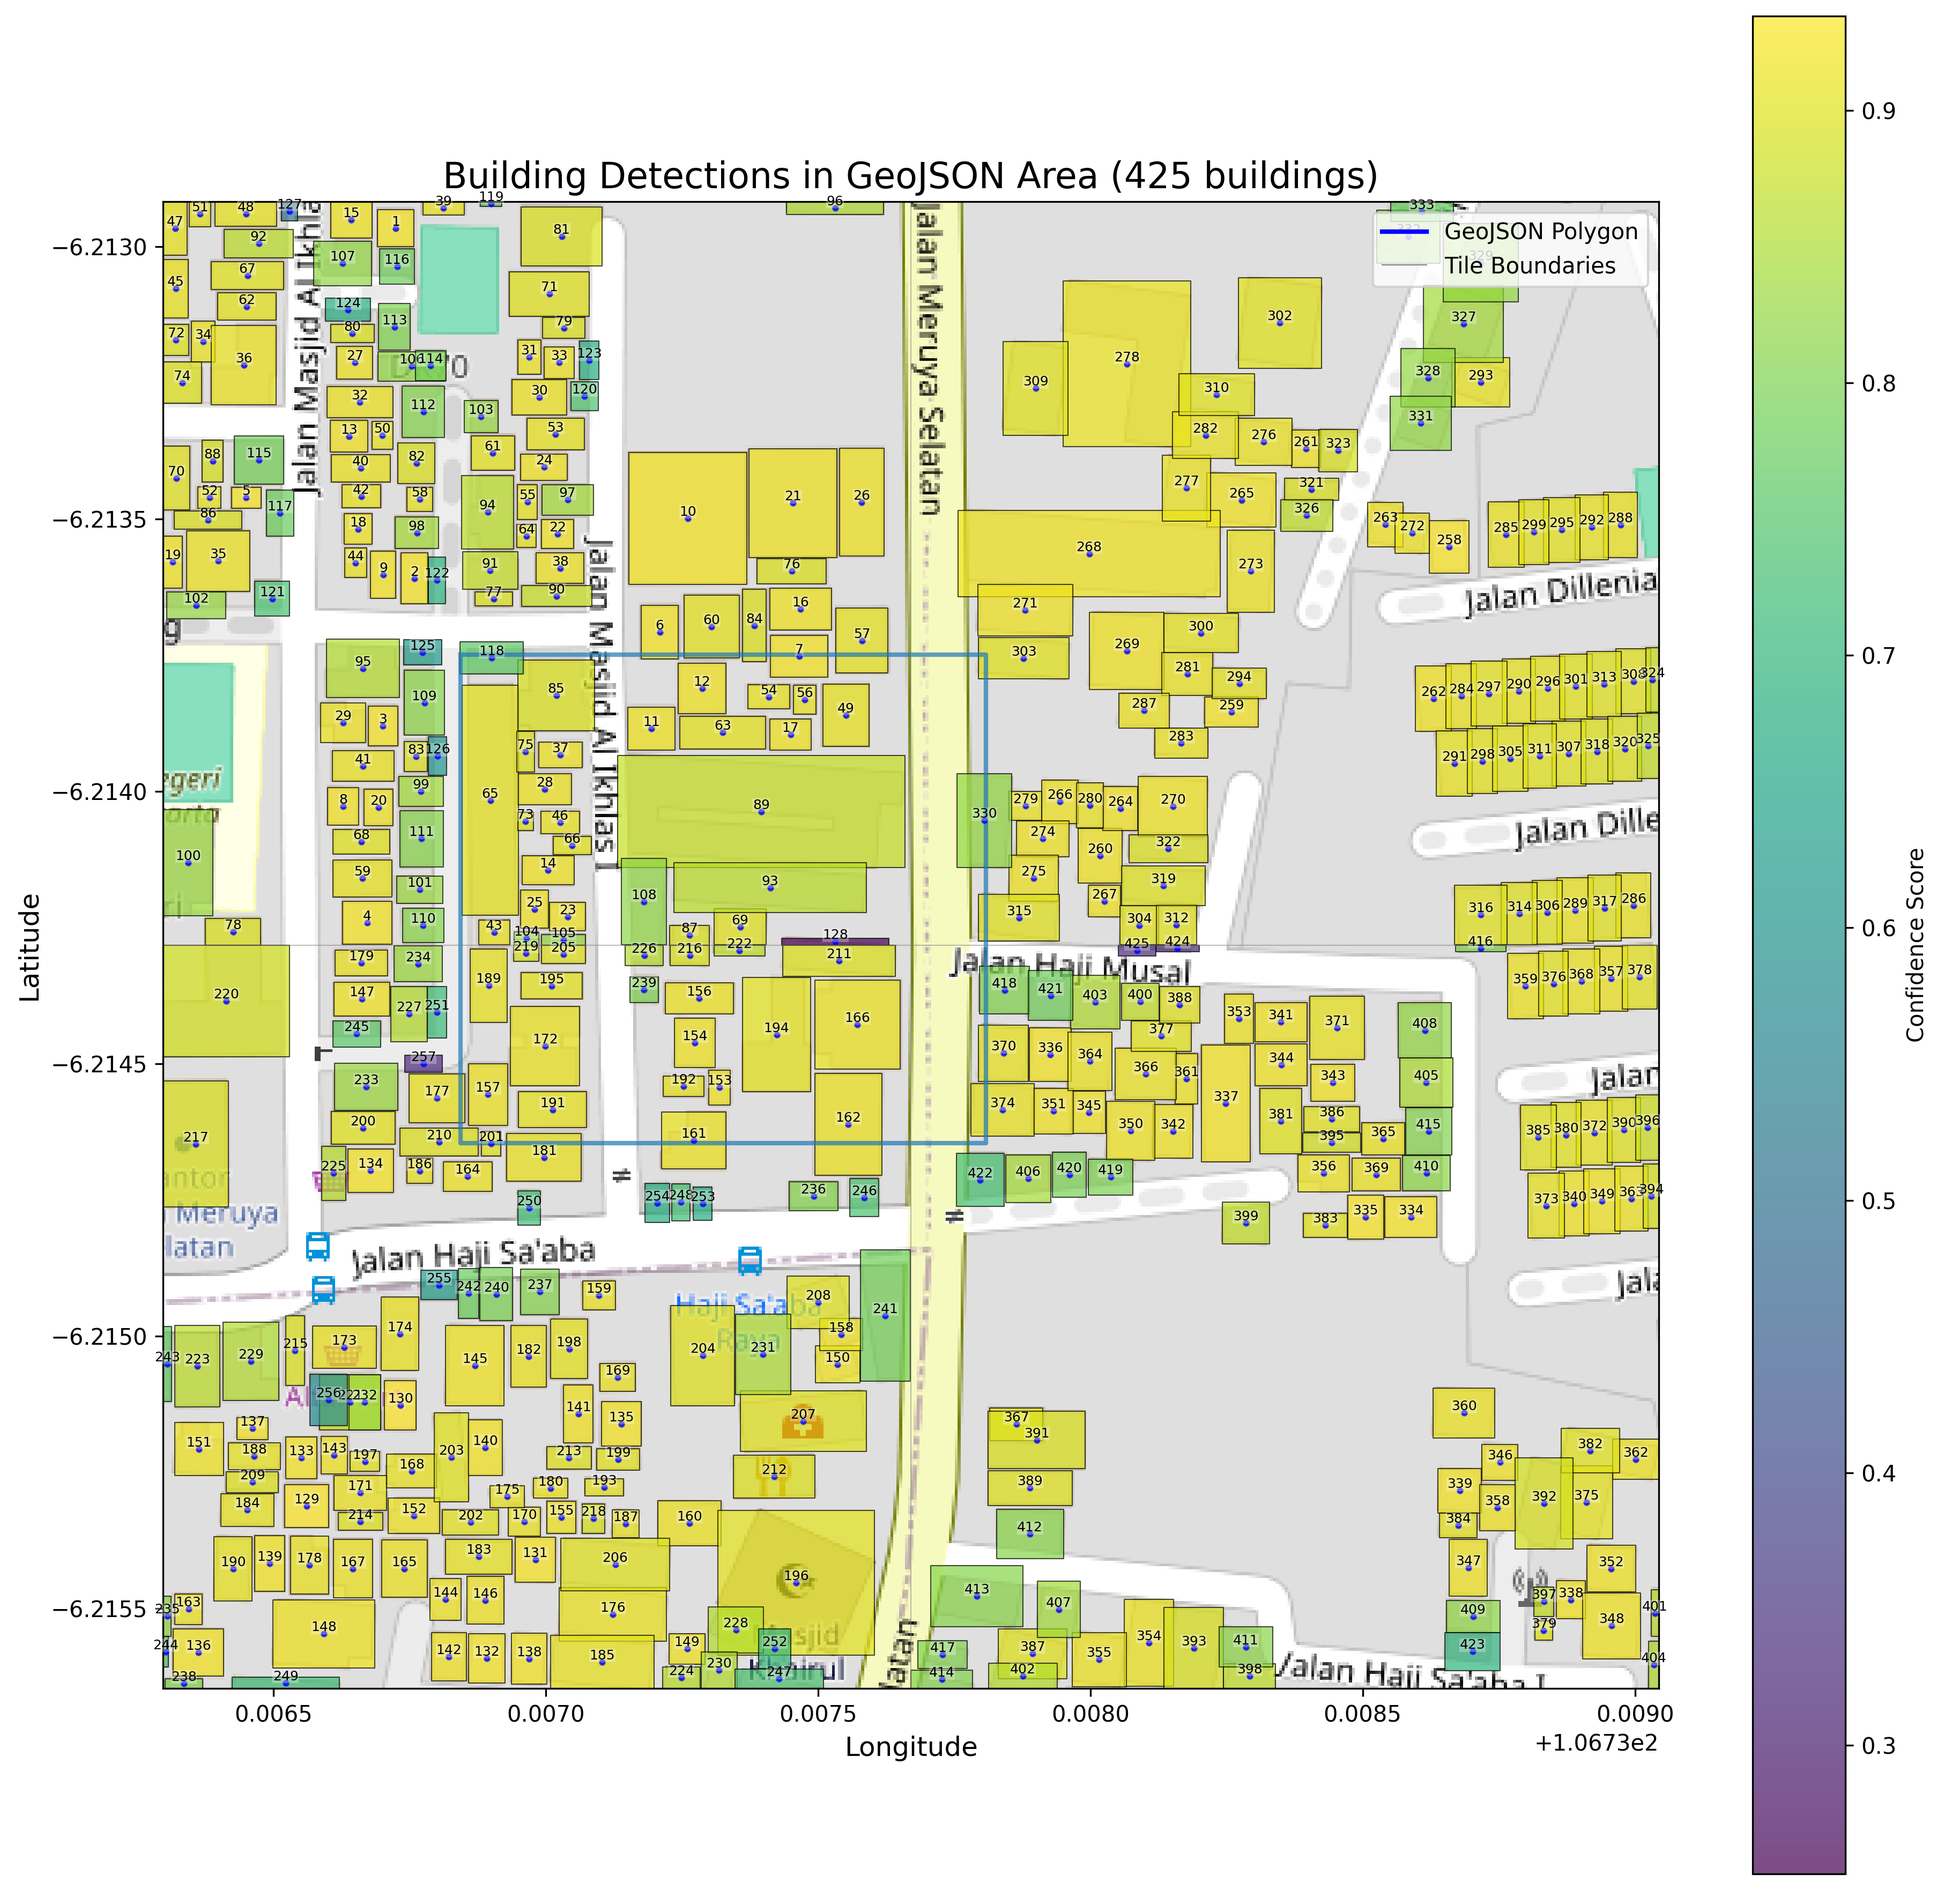
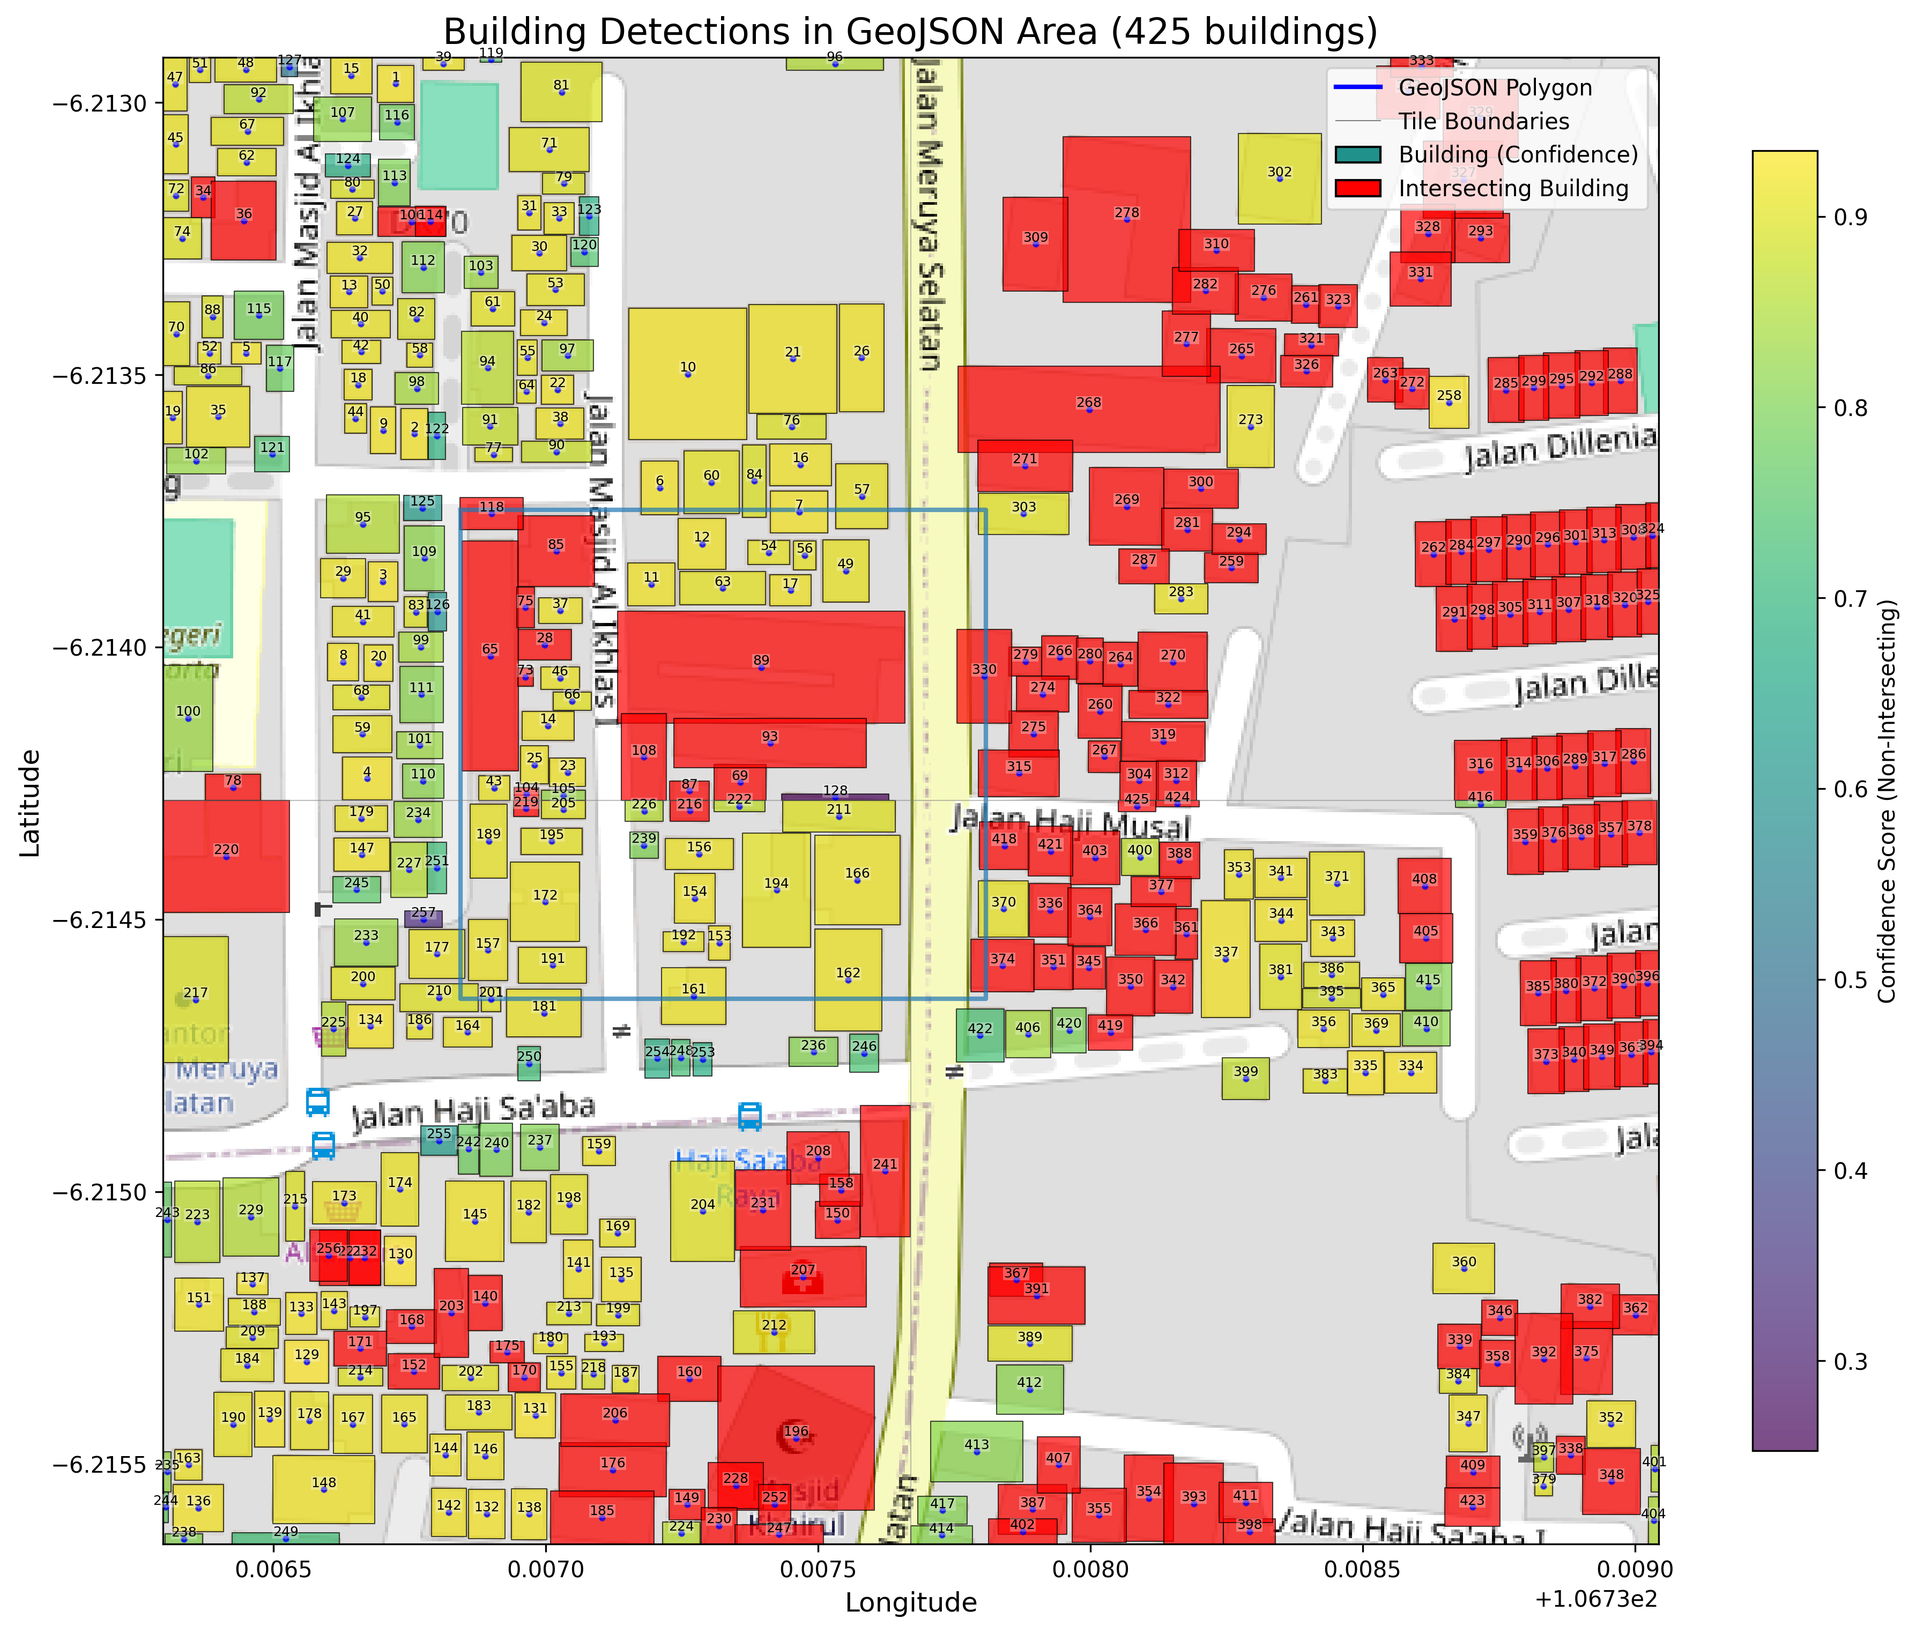
update: image

diff --git a/visualization.py b/visualization.py
@@ -2,7 +2,7 @@ import numpy as np
 import matplotlib.pyplot as plt
 import matplotlib.patches as patches
 from matplotlib.collections import PatchCollection
-from shapely.geometry import Polygon, shape
+from shapely.geometry import Polygon, shape, box
 
 from geojson_utils import load_geojson, extract_polygon
 from tile_utils import create_stitched_image
@@ -94,6 +94,7 @@ def visualize_polygon_detections(geojson_path, results_data, output_path=None):
     # Plot building detections
     building_patches = []
     confidence_values = []
+    shapely_boxes_polygons = [] # For intersection detection
     building_id_counter = 1  # Initialize building ID counter
     
     for tile_detection in results_data['detections']:
@@ -110,9 +111,9 @@ def visualize_polygon_detections(geojson_path, results_data, output_path=None):
         confidences = tile_detection['confidences']
         
         # Process each box
-        for i, box in enumerate(boxes):
+        for i, bbox_coords in enumerate(boxes):
             # Get normalized coordinates (0-1) within the tile
-            x1, y1, x2, y2 = box
+            x1, y1, x2, y2 = bbox_coords
             
             # Convert to image coordinates (assuming 256x256 images)
             img_width = 256
@@ -139,50 +140,92 @@ def visualize_polygon_detections(geojson_path, results_data, output_path=None):
             ax.text(center_lon, center_lat, str(building_id_counter), color='black', fontsize=6,
                     ha='center', va='bottom', bbox=dict(facecolor='white', alpha=0.3, pad=0.1, edgecolor='none'))
             
-            # Create rectangle
+            # Create rectangle patch
             rect = patches.Rectangle(
                 (geo_x1, geo_y2),  # Lower left corner (x, y)
                 geo_x2 - geo_x1,    # Width
                 geo_y1 - geo_y2,    # Height
                 linewidth=1,
-                edgecolor='none',
-                facecolor='none'
+                edgecolor='none', # Will be set by PatchCollection or individually
+                facecolor='none'  # Will be set by PatchCollection or individually
             )
-            
             building_patches.append(rect)
+            
+            # Store shapely box for intersection detection
+            # box(minx, miny, maxx, maxy)
+            current_shapely_box = box(geo_x1, geo_y2, geo_x2, geo_y1)
+            shapely_boxes_polygons.append(current_shapely_box)
+            
             confidence_values.append(confidences[i] if i < len(confidences) else 0.5)
             building_id_counter += 1 # Increment for the next building
     
-    # Add building patches to the plot with color based on confidence
-    if building_patches:
-        # Create a PatchCollection for better performance
-        building_collection = PatchCollection(
-            building_patches, 
-            cmap=plt.cm.viridis,
+    # Identify intersecting boxes
+    num_boxes = len(shapely_boxes_polygons)
+    is_intersecting = [False] * num_boxes
+    if num_boxes > 1:
+        for i in range(num_boxes):
+            for j in range(i + 1, num_boxes):
+                if shapely_boxes_polygons[i].intersects(shapely_boxes_polygons[j]):
+                    is_intersecting[i] = True
+                    is_intersecting[j] = True
+
+    # Separate patches for plotting
+    intersecting_building_patches = []
+    non_intersecting_building_patches = []
+    non_intersecting_confidences = []
+
+    for i in range(num_boxes):
+        if is_intersecting[i]:
+            intersecting_building_patches.append(building_patches[i])
+        else:
+            non_intersecting_building_patches.append(building_patches[i])
+            non_intersecting_confidences.append(confidence_values[i])
+
+    # Add intersecting building patches to the plot
+    if intersecting_building_patches:
+        intersecting_collection = PatchCollection(
+            intersecting_building_patches,
+            facecolor='red',  # Distinct color for intersections
             alpha=0.7,
             edgecolor='black',
             linewidth=0.5
         )
-        
+        ax.add_collection(intersecting_collection)
+
+    # Add non-intersecting building patches to the plot with color based on confidence
+    if non_intersecting_building_patches:
+        non_intersecting_collection = PatchCollection(
+            non_intersecting_building_patches, 
+            cmap=plt.cm.viridis,
+            alpha=0.7,
+            edgecolor='black', # Or a different edgecolor if desired
+            linewidth=0.5
+        )
         # Set the color array based on confidence values
-        building_collection.set_array(np.array(confidence_values))
-        
+        non_intersecting_collection.set_array(np.array(non_intersecting_confidences))
         # Add the collection to the plot
-        ax.add_collection(building_collection)
-        
+        ax.add_collection(non_intersecting_collection)
         # Add a colorbar
-        cbar = plt.colorbar(building_collection, ax=ax)
-        cbar.set_label('Confidence Score')
+        cbar = plt.colorbar(non_intersecting_collection, ax=ax, shrink=0.7)
+        cbar.set_label('Confidence Score (Non-Intersecting)')
     
     # Set title and labels
+    # The len(building_patches) still represents the total number of unique buildings detected
     ax.set_title(f'Building Detections in GeoJSON Area ({len(building_patches)} buildings)', fontsize=16)
     ax.set_xlabel('Longitude', fontsize=12)
     ax.set_ylabel('Latitude', fontsize=12)
     
     # Add a legend
-    ax.plot([], [], color='blue', linewidth=2, label='GeoJSON Polygon')
-    ax.plot([], [], color='gray', linewidth=0.5, label='Tile Boundaries')
-    ax.legend(loc='upper right')
+    legend_handles = [
+        plt.Line2D([0], [0], color='blue', linewidth=2, label='GeoJSON Polygon'),
+        plt.Line2D([0], [0], color='gray', linewidth=0.5, label='Tile Boundaries')
+    ]
+    if non_intersecting_building_patches: # Only add if there are non-intersecting buildings
+        legend_handles.append(patches.Patch(facecolor=plt.cm.viridis(0.5), edgecolor='black', label='Building (Confidence)'))
+    if intersecting_building_patches: # Only add if there are intersecting buildings
+        legend_handles.append(patches.Patch(facecolor='red', edgecolor='black', label='Intersecting Building'))
+    
+    ax.legend(handles=legend_handles, loc='upper right')
     
     # Save the figure if output path is provided
     if output_path:
